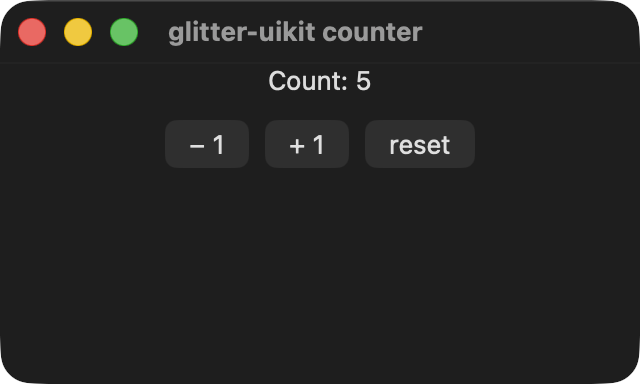
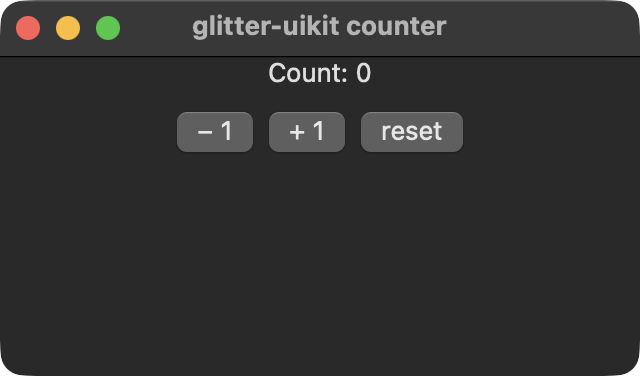
feat(bb): add docs-sync, and mark the capture tooling maintainer-only
`bb docs-sync [--no-push]` rebuilds the site through b12n-docs, mirrors
docs/guide into b12n-wikis, commits and pushes the site repo, then syncs to S3
and invalidates CloudFront. Adapted from glitter's task of the same name.

One difference from glitter's, and it is the important one: this is the S3
variant, NOT the GitHub Pages one. glitter-uikit.github.io is private and stays
private, and GitHub will not serve Pages from a private repo on a free plan — so
the push is only a backup of the built output and the S3 sync is what actually
publishes glitter-uikit.b12n.app. Enabling Pages is deliberately not part of the
task.

Everything else is carried over deliberately rather than simplified away: it
never force-pushes and never rebases (a branch behind origin is reported and
skipped), add/commit are scoped by path because b12n-wikis is shared across
projects and a stray staged file must not ride along, and a failed head-bucket
is CLASSIFIED rather than assumed to mean "no bucket" — an unreachable proxy
and a missing bucket fail identically, and only one of them wants someone
running tofu:apply.

Also: the capture tooling is now marked MAINTAINER-ONLY wherever a reader meets
it. screen-grab and cgevent are not public, and the docs previously told people
to run them. The guide page leads its recording section with a callout saying
the images are committed so neither tool is needed, the generated demo catalog
[…]

diff --git a/docs/demos/README.md b/docs/demos/README.md
@@ -1,6 +1,6 @@
 # Demos
 
-Screenshots of glitter-uikit's interactive demos, rendered through AppKit. The images here are committed, so you do not need the capture tool to browse them.
+Screenshots of glitter-uikit's interactive demos, rendered through AppKit. The images here are committed, so you do not need the capture tool to browse them — which is just as well, because `screen-grab` and `cgevent` are MAINTAINER-ONLY and not public yet.
 
 `todo.png` is a plain `screen-grab shot` of the demo's initial state and regenerates faithfully. **`counter.png` was steered by hand** — a person clicked `+ 1` five times and focused the window before the frame was taken — because an automated capture cannot drive it: the app's accessibility subtree does not populate from a cold, unattended launch, so a recorded flow finds no button to press. Synthetic input itself works fine once a control is focused through an accessibility tap (measured: a flow drove the counter 0 -> 3 and typed 100 into the converter, which correctly showed 212); it is the COLD-LAUNCH tree that is the blocker. A normal re-run leaves it alone: the ledger hashes each item's `:src`, so an unchanged `counter.clj` reports `up to date` (verified). But `--force`, or any edit to `counter.clj`, WILL recapture it and silently replace the steered frame with an initial-state one reading `Count: 0`. If that happens, re-steer it by hand rather than committing the regression.
 
@@ -39,4 +39,8 @@ A task board on glitter.nexus: derived counts computed inline, an entry, and che
 ### crud
 
 ![crud](crud.png)
+
+### circles
+
+![circles](circles.png)
 

diff --git a/docs/guide/examples.md b/docs/guide/examples.md
@@ -140,6 +140,13 @@ are the index; that page is the argument.
 
 ## How the recordings are made
 
+> **The capture tooling is maintainer-only.** Everything below describes how
+> the images in this repo were made, and both tools it names — `screen-grab`
+> and `cgevent` — are **not public yet**. You do not need either of them: every
+> screenshot and GIF is committed, so the gallery works from a plain clone. This
+> section is here so the provenance of each image is on the record, and so the
+> recipe is written down for whoever regenerates them.
+
 Every preview above is a real recording of the demo being driven. They are
 produced by `scripts/record_gifs.sh`, which drives each demo through `cgevent`'s
 **accessibility API**: `:tap-by-role` sends `AXPress` to a real control, and once
@@ -202,3 +209,7 @@ If the new example is a screenshot-worthy interactive demo, add it to
 `screen-grab shot --manifest scripts/demo_manifest.edn`. If it animates on its
 own, without needing input, it can go in `scripts/demo_gifs.edn` instead and be
 recorded with `screen-grab record`.
+
+Both of those need the maintainer-only tooling above. A contribution that adds
+an example is entirely welcome **without** an image — say so in the PR and it
+can be captured on this side.
